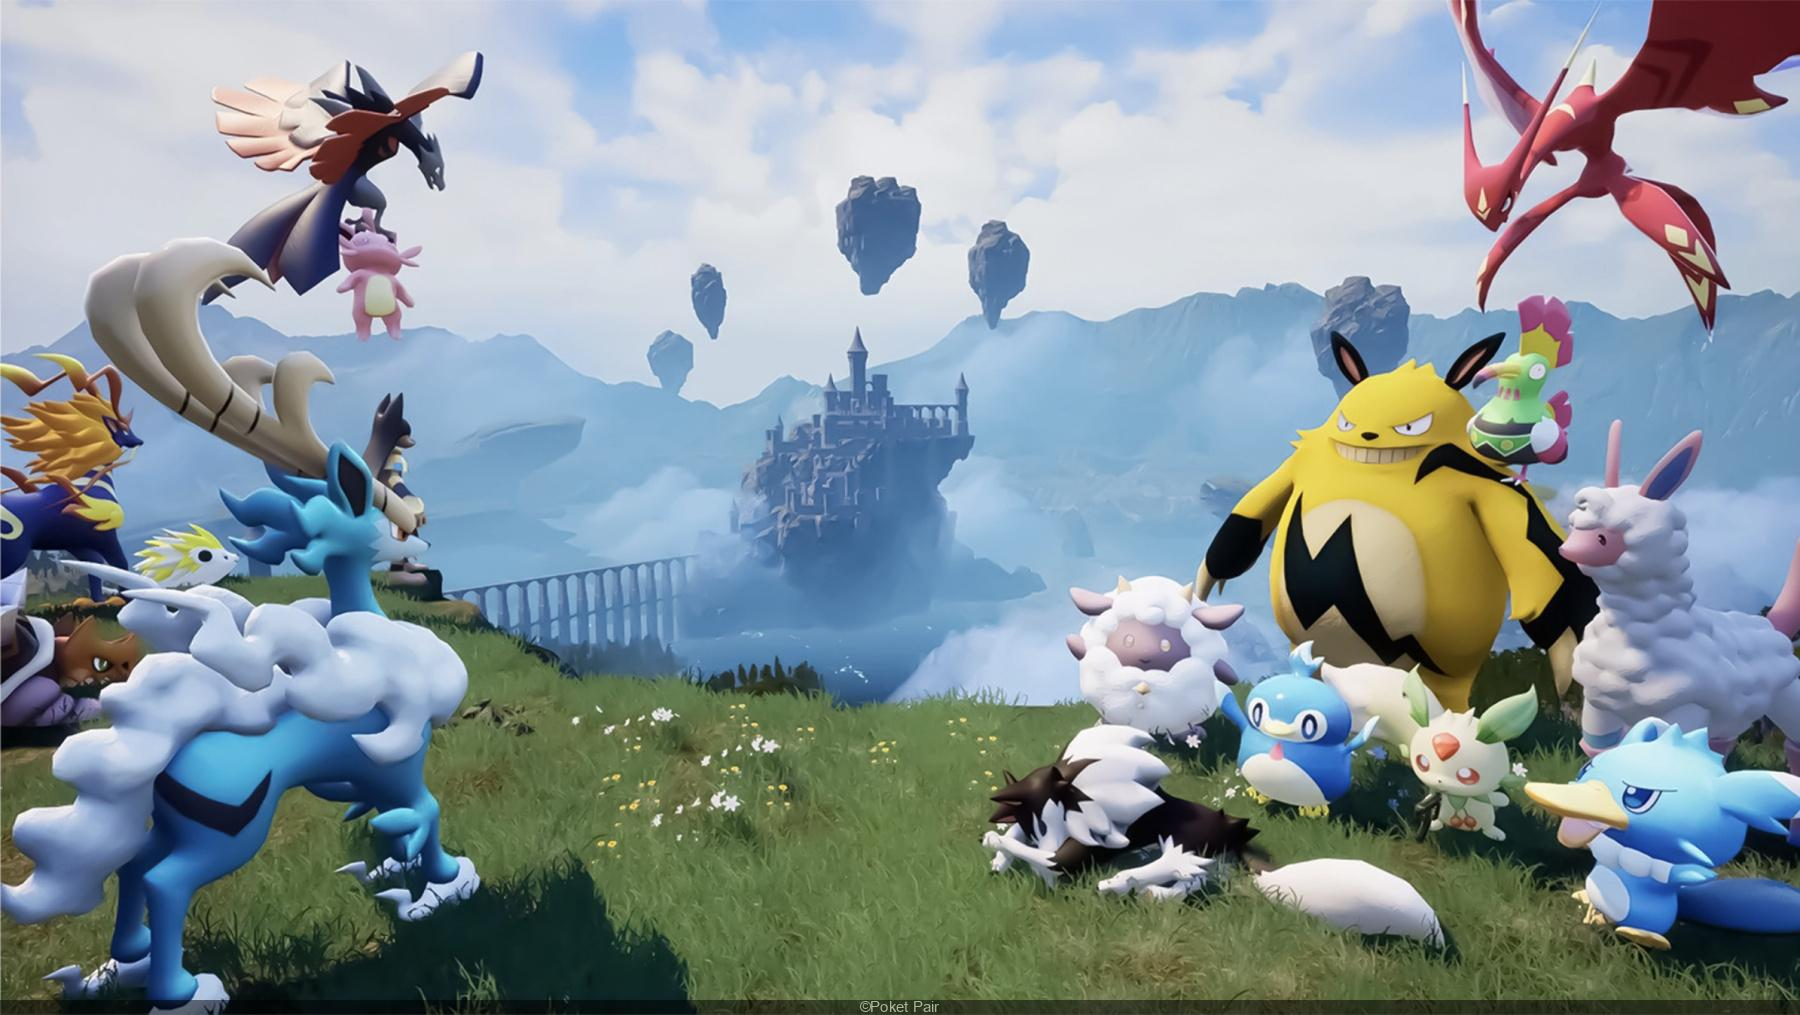
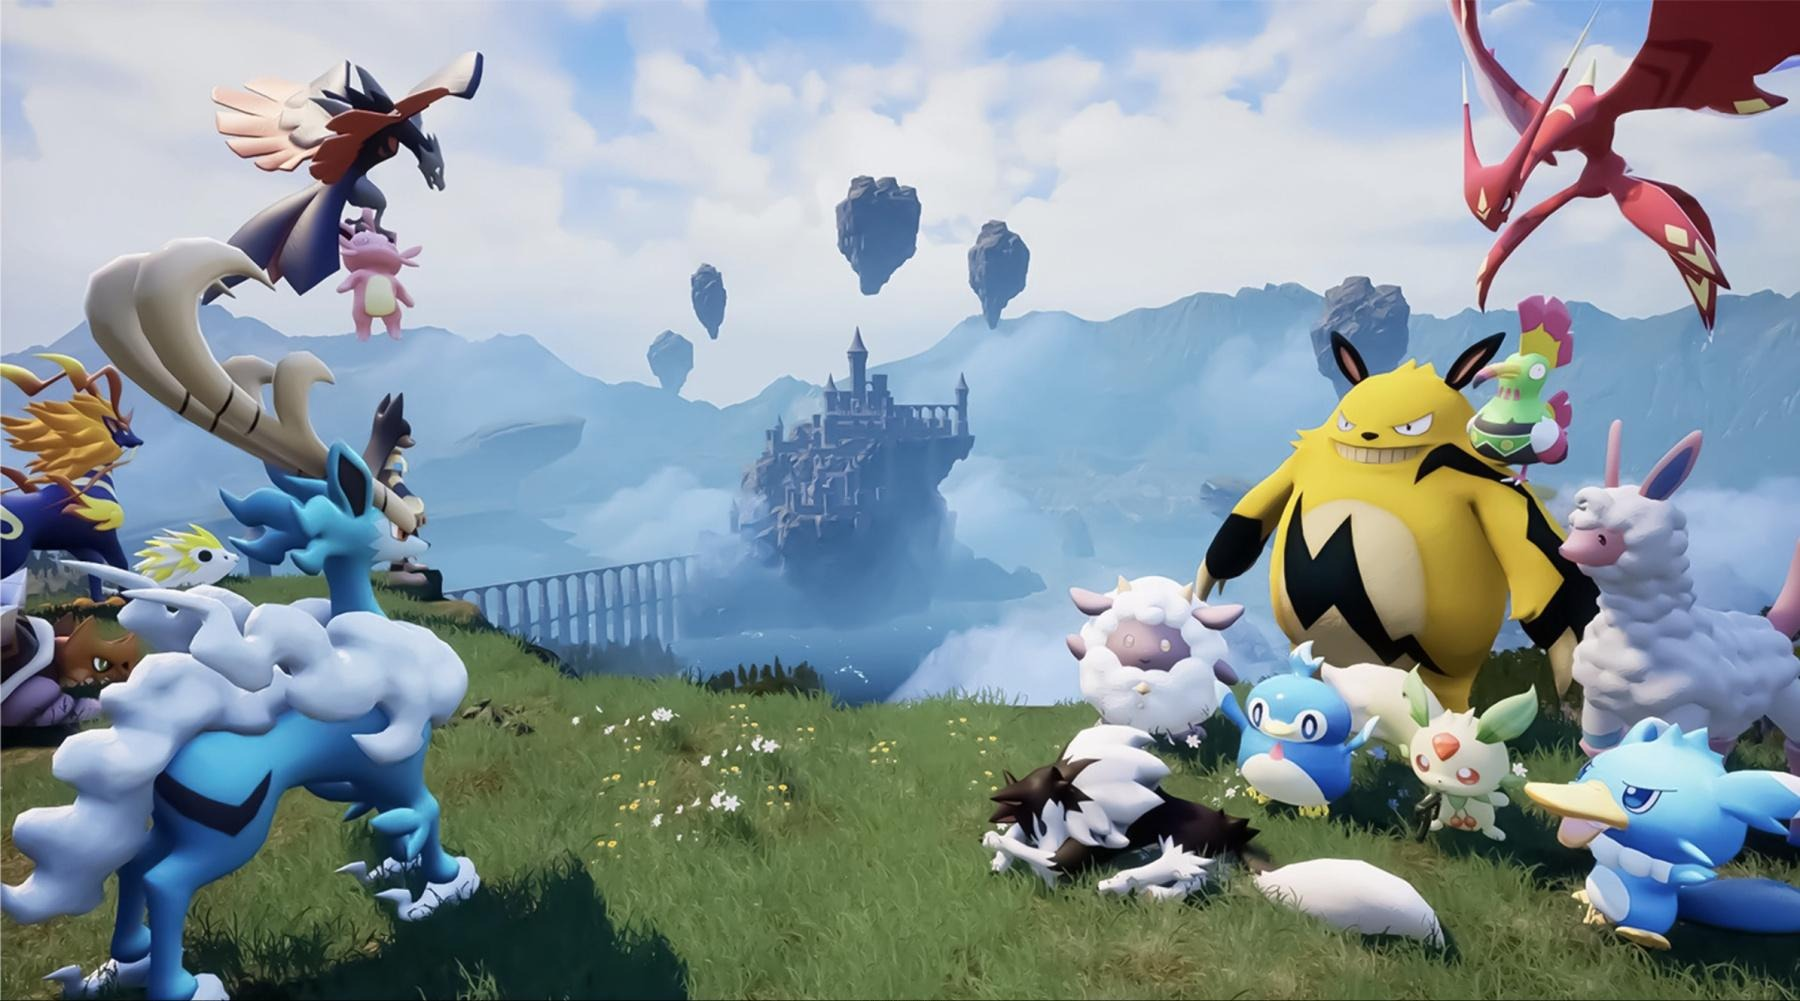
Faster initial background image load
Now at the beginning there is low quality image as background, that is later replaced by high quality one

diff --git a/src/App.css b/src/App.css
@@ -7,10 +7,17 @@ body {
 
 .app_container {
   min-height: 100vh;
-  background-image: url("/graphics/background2_Crop.png");
+  background-image: url("/graphics/background.jpg");
   background-size: cover;
   background-position: center;
   background-attachment: fixed;
+}
+
+@media (min-resolution: 1dppx) {
+  /* Load high resolution image for devices with at least 2 device pixels per CSS pixel */
+  .app_container {
+    background-image: url("/graphics/background2_Crop.png");
+  }
 }
 
 body::-webkit-scrollbar-track {
